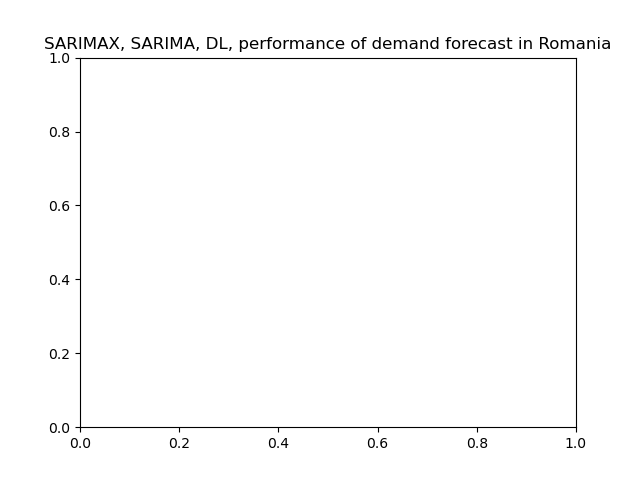
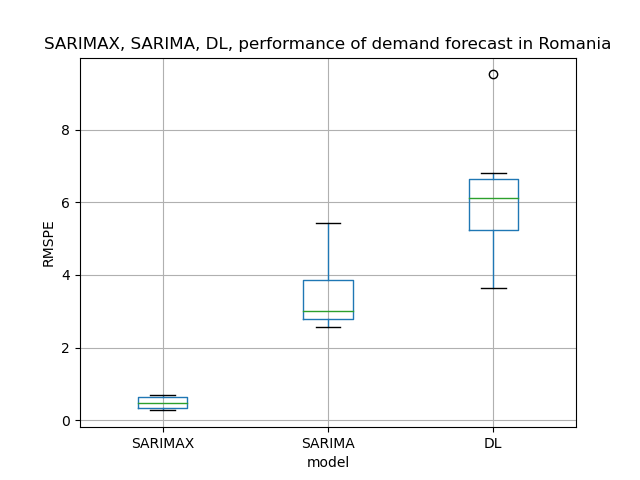
finished altering broken figures

diff --git a/src/data_visualization.py b/src/data_visualization.py
@@ -53,8 +53,7 @@ def visualize_prediction(prediction, data, title):
 
 def visualize_model_performance(country, energy, models):
     series = pd.read_csv(
-        # var.result_dir + "prediction_" + country + "_" + energy + "_all.csv",
-        "../demand_forecasts/prediction_" + country + "_" + energy + "_all.csv",
+        var.result_dir + "prediction_" + country + "_" + energy + "_all.csv",
         index_col=var.DATE,
     )
     # series.boxplot(column=[var.SARIMA, var.ARIMA, var.DL, var.SARIMAX])
@@ -89,6 +88,27 @@ def mean_calc(list):
     return sum(list) / len(list)
 
 
+def pred_struct_alter(df, model):
+    dictionary = {}
+    df[model] = df[model].apply(lambda x: ast.literal_eval(x))
+
+    for m in df.index:
+        for i in range(var.predictionCount):
+            key = m + pd.DateOffset(months=i)
+            if key in dictionary:
+                dictionary[key].append(df[model][m][i])
+            else:
+                dictionary[key] = [df[model][m][i]]
+
+    new_dict = {var.DATE: [], model: []}
+    for key in dictionary:
+        new_dict[var.DATE].append(key)
+        new_dict[model].append(dictionary[key])
+
+    df1 = pd.DataFrame(new_dict).set_index(var.DATE)
+    return df1[model]
+
+
 def visualize_pred_margin(country, energy):
     source = organize_table(country)[energy]
     df = pd.read_csv(
@@ -96,21 +116,20 @@ def visualize_pred_margin(country, energy):
         index_col=var.DATE,
         parse_dates=True,
     )
-    df[var.SARIMA] = df[var.SARIMA].apply(lambda x: ast.literal_eval(x))
-    df[var.ARIMA] = df[var.ARIMA].apply(lambda x: ast.literal_eval(x))
-    df[var.DL] = df[var.DL].apply(lambda x: ast.literal_eval(x))
-    df[var.SARIMAX] = df[var.SARIMAX].apply(lambda x: ast.literal_eval(x))
-
+    df1 = pd.DataFrame(columns=[var.DATE]).set_index(var.DATE)
+    df1.index.freq = "MS"
+    df1[var.SARIMA] = pred_struct_alter(df, var.SARIMA)
+    df1[var.ARIMA] = pred_struct_alter(df, var.ARIMA)
+    df1[var.DL] = pred_struct_alter(df, var.DL)
+    df1[var.SARIMAX] = pred_struct_alter(df, var.SARIMAX)
+    df = df1
     df["s_mean"] = df[var.SARIMA].apply(median_calc)
     df["a_mean"] = df[var.ARIMA].apply(median_calc)
     df["d_mean"] = df[var.DL].apply(median_calc)
     df["sx_mean"] = df[var.SARIMAX].apply(median_calc)
 
     df["merged"] = df.apply(
-        lambda row: row["arima_prediction"]
-        + row[var.SARIMA]
-        + row[var.DL]
-        + row[var.SARIMAX],
+        lambda row: row[var.ARIMA] + row[var.SARIMA] + row[var.DL] + row[var.SARIMAX],
         axis=1,
     )
     df["min_range"] = df["merged"].apply(min)
@@ -151,14 +170,14 @@ def visualize_pred_margin(country, energy):
     plt.show()
 
 
-# def visual_narrative(c, e):
-#     df = organize_table(c)[e]
-#     view_trend_seasonality(df)
-#     visualize_pred_margin(c, e)
-#     visualize_model_performance(c, e)
+def visual_narrative(c, e):
+    df = organize_table(c)[e]
+    view_trend_seasonality(df)
+    visualize_pred_margin(c, e)
+    # visualize_model_performance(c, e)
 
 
-# visual_narrative("France", "solar")
+# visual_narrative("Hungary", "demand")
 
 
 def iterative_forecast_visualization(energy, country, models):
@@ -214,8 +233,17 @@ def iterative_forecast_visualization(energy, country, models):
         title = title + model + ", "
     title = title + "performance of " + energy + " forecast in " + country
     plt.title(title)
+    series = pd.read_csv(
+        var.result_dir + "prediction_" + country + "_" + energy + "_all.csv",
+        index_col=var.DATE,
+    )
+    # series.boxplot(column=[var.SARIMA, var.ARIMA, var.DL, var.SARIMAX])
+    series.boxplot(column=models)
+    plt.xlabel("model")
+    plt.ylabel(var.RMSPE)
     plt.savefig(path + title + ".png")
-    visualize_model_performance(country, energy, models)
+    plt.show()
 
 
-iterative_forecast_visualization("demand", "Romania", ["SARIMAX", "SARIMA", "DL"])
+iterative_forecast_visualization("demand", "Netherlands", ["SARIMAX", "SARIMA", "DL"])
+# visualize_pred_margin("Hungary", "demand")

diff --git a/src/rebasement_exo.py b/src/rebasement_exo.py
@@ -1,60 +1,30 @@
-from data_reader import organize_table, organize_rebasement
-import numpy as np
 import pandas as pd
-from forecasting import sarimax_prediction, sarima_prediction, arima_prediction
-import matplotlib.pyplot as plt
+import numpy as np
+import variables as var
 import ast
-from auxiliary import rmspe_calculation
 
-data = organize_table("Hungary")
-re = organize_rebasement("Hungary", "demand", max(data.index))
 df = pd.read_csv(
-    "../demand_forecasts/Hungary_predicted_monthly_demand.csv",
-    index_col="date",
-    parse_dates=True,
+    "../demand_forecasts/graph_Hungary_demand.csv", index_col="date", parse_dates=True
 )
+df.index.freq = "MS"
 
-df["SARIMAX"] = df["SARIMAX"].apply(lambda x: ast.literal_eval(x))
-l = []
-for iter in range(3):
-    s = df.index[iter]
-    e = s + pd.DateOffset(months=len(df.index) - 1)
-    dates = pd.date_range(start=s, end=e, freq="MS")
-    z = pd.DataFrame(dates, columns=["date"])
-    y = []
-    for a in df["SARIMAX"]:
-        y.append(a[iter])
-    z["predictions"] = y
-    z = z.set_index("date")
-    z["demand"] = data["demand"][data.index[data.index >= min(z.index)]]
-    l.append(rmspe_calculation(z["demand"], z["predictions"]))
-    z.index.freq = "MS"
-    plt.plot(dates, y, label="M+" + str(iter + 1) + " forecasts", linestyle="--")
-print(l)
-# for i in df.index:
-#     dates = pd.date_range(
-#         start=i, end=i + pd.DateOffset(months=(len(df["SARIMAX"][i]) - 1)), freq="MS"
-#     )
-#     plt.plot(
-#         dates, df["SARIMAX"][i], label="predictions from " + str(i), linestyle="--"
-#     )
-# def median_value(list):
-#     return (max(list) + min(list)) / 2
+dictionary = {}
 
+df[var.SARIMA] = df[var.SARIMA].apply(lambda x: ast.literal_eval(x))
+model = var.SARIMA
 
-# df["median"] = df["SARIMAX"].apply(median_value)
-# print(df.index[0] + pd.DateOffset(months=1))
+for m in df.index:
+    for i in range(var.predictionCount):
+        key = m + pd.DateOffset(months=i)
+        if key in dictionary:
+            dictionary[key].append(df[model][m][i])
+        else:
+            dictionary[key] = [df[model][m][i]]
 
-data["demand"][84:].rename("monthly data").plot(legend=True)
-re["rebasement"][84:].rename("hourly data cumulation").plot(legend=True)
-# df["median"].rename("sarimax model forecast").plot(legend=True)
-plt.legend()
-plt.title("SARIMAX model forecast of demand in Hungary")
-plt.show()
+new_dict = {"date": [], "SARIMA": []}
+for key in dictionary:
+    new_dict["date"].append(key)
+    new_dict["SARIMA"].append(dictionary[key])
 
-plt.bar(
-    ["M+1 RMSPE", "M+2 RMSPE", "M+3 RMSPE"],
-    l,
-    width=0.3,
-)
-plt.show()
+df1 = pd.DataFrame(new_dict)
+print(df1)
